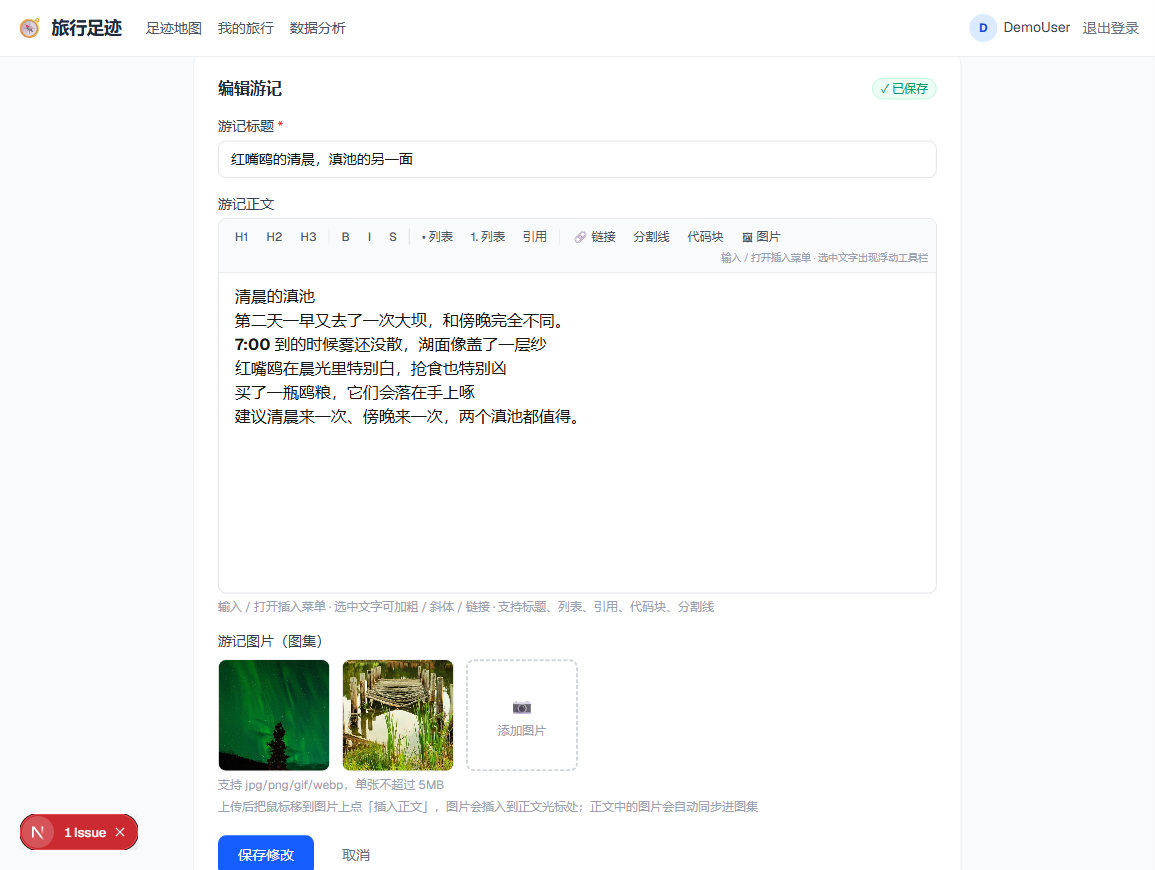
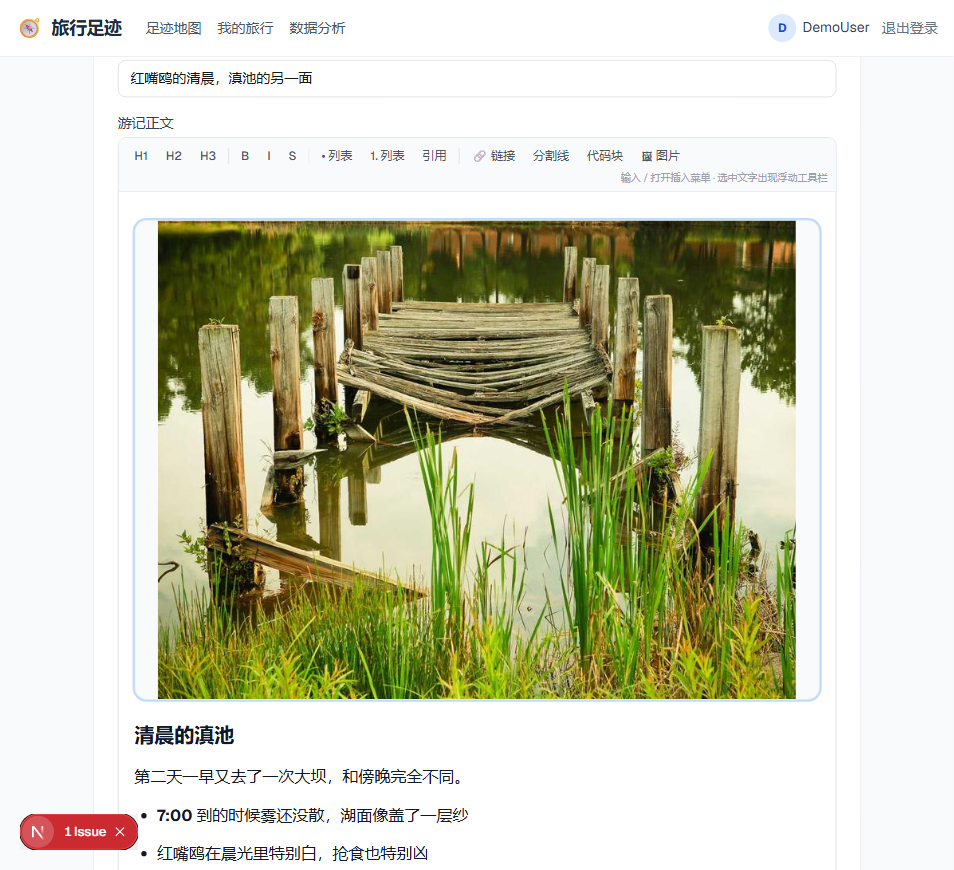
feat: 编辑器所见即所得视觉层——统一 Typography + 宽度收窄 + placeholder + 快捷输入验证
- 阅读页/编辑页共用 .markdown-content Typography（编辑=保存后排版）
- .prose-editor .ProseMirror：outline/min-height/max-width 780px 居中
- 新增 @tiptap/extension-placeholder（空编辑器提示）
- 验证 StarterKit 默认 input rules：#→H1、##→H2、-→列表、>→引用、1.→有序列表
- 更新编辑器运行截图

diff --git a/app/globals.css b/app/globals.css
@@ -18,8 +18,8 @@ body {
   font-family: var(--font-geist-sans), "PingFang SC", "Microsoft YaHei", Arial, sans-serif;
 }
 
-/* Markdown 游记正文样式 */
-.markdown-body h1 {
+/* Markdown 娓歌姝ｆ枃鏍峰紡 */
+.markdown-content h1 {
   font-size: 1.5rem;
   font-weight: 700;
   color: #111827;
@@ -28,35 +28,35 @@ body {
   padding-bottom: 0.3rem;
   border-bottom: 1px solid #e5e7eb;
 }
-.markdown-body h2 {
+.markdown-content h2 {
   font-size: 1.25rem;
   font-weight: 700;
   color: #111827;
   margin-top: 1.1rem;
   margin-bottom: 0.5rem;
 }
-.markdown-body h3 {
+.markdown-content h3 {
   font-size: 1.1rem;
   font-weight: 600;
   color: #111827;
   margin-top: 0.9rem;
   margin-bottom: 0.4rem;
 }
-.markdown-body p {
+.markdown-content p {
   margin-top: 0.6rem;
   margin-bottom: 0.6rem;
   line-height: 1.8;
 }
-.markdown-body ul,
-.markdown-body ol {
+.markdown-content ul,
+.markdown-content ol {
   margin: 0.6rem 0;
   padding-left: 1.4rem;
   list-style: revert;
 }
-.markdown-body li {
+.markdown-content li {
   margin: 0.25rem 0;
 }
-.markdown-body blockquote {
+.markdown-content blockquote {
   border-left: 3px solid #93c5fd;
   background: #eff6ff;
   padding: 0.5rem 0.9rem;
@@ -64,14 +64,14 @@ body {
   border-radius: 0 0.4rem 0.4rem 0;
   color: #4b5563;
 }
-.markdown-body code {
+.markdown-content code {
   background: #f3f4f6;
   padding: 0.15rem 0.35rem;
   border-radius: 0.3rem;
   font-size: 0.875em;
   font-family: var(--font-geist-mono), Consolas, monospace;
 }
-.markdown-body pre {
+.markdown-content pre {
   background: #111827;
   color: #e5e7eb;
   padding: 0.9rem 1rem;
@@ -79,34 +79,34 @@ body {
   overflow-x: auto;
   margin: 0.8rem 0;
 }
-.markdown-body pre code {
+.markdown-content pre code {
   background: transparent;
   padding: 0;
   color: inherit;
 }
-.markdown-body a {
+.markdown-content a {
   color: #2563eb;
   text-decoration: underline;
 }
-.markdown-body hr {
+.markdown-content hr {
   margin: 1.2rem 0;
   border-color: #e5e7eb;
 }
-.markdown-body table {
+.markdown-content table {
   border-collapse: collapse;
   margin: 0.8rem 0;
   width: 100%;
 }
-.markdown-body th,
-.markdown-body td {
+.markdown-content th,
+.markdown-content td {
   border: 1px solid #e5e7eb;
   padding: 0.4rem 0.7rem;
   font-size: 0.9rem;
 }
-.markdown-body th {
+.markdown-content th {
   background: #f9fafb;
 }
-.markdown-body img {
+.markdown-content img {
   display: block;
   max-width: 100%;
   height: auto;
@@ -114,6 +114,37 @@ body {
   border-radius: 0.75rem;
   border: 1px solid #e5e7eb;
 }
-.markdown-body p img {
+.markdown-content p img {
   margin: 0.5rem 0;
+}
+
+/* ===== Tiptap 所见即所得编辑器：编辑时直接显示最终排版 =====
+   .markdown-content 规则（上方）已同时作用于阅读页与编辑器，
+   此处只放编辑器专属的基础排版 */
+.prose-editor .ProseMirror {
+  outline: none;
+  min-height: 320px;
+  color: #111827;
+  font-size: 1rem;
+  line-height: 1.8;
+  max-width: 780px;
+  margin: 0 auto;
+}
+.prose-editor .ProseMirror > *:first-child {
+  margin-top: 0;
+}
+.prose-editor .ProseMirror p.is-editor-empty:first-child::before {
+  content: attr(data-placeholder);
+  float: left;
+  height: 0;
+  pointer-events: none;
+  color: #9ca3af;
+}
+/* 选中文字时保留排版（不因 selection 变小） */
+.prose-editor .ProseMirror ::selection {
+  background: #bfdbfe;
+}
+/* 图片节点 hover 操作区不干扰选中 */
+.prose-editor .ProseMirror .image-node-view {
+  cursor: pointer;
 }

diff --git a/components/editor/editor-extensions.ts b/components/editor/editor-extensions.ts
@@ -7,6 +7,7 @@ import StarterKit from "@tiptap/starter-kit";
 import { Markdown } from "@tiptap/markdown";
 import Image from "@tiptap/extension-image";
 import Link from "@tiptap/extension-link";
+import Placeholder from "@tiptap/extension-placeholder";
 import { ReactNodeViewRenderer } from "@tiptap/react";
 import ImageNodeView from "./EditorImage";
 
@@ -29,5 +30,8 @@ export const editorExtensions = [
     autolink: true,
     linkOnPaste: true,
     HTMLAttributes: { class: "text-blue-600 underline" },
+  }),
+  Placeholder.configure({
+    placeholder: "开始写点什么…（输入 / 打开插入菜单）",
   }),
 ];

diff --git a/components/editor/TravelEditor.tsx b/components/editor/TravelEditor.tsx
@@ -82,6 +82,8 @@ const TravelEditor = forwardRef<TravelEditorHandle, TravelEditorProps>(function 
       onChange?.(editor.getMarkdown());
     },
     editorProps: {
+      // 与阅读页共用同一套 Typography（所见即所得）
+      attributes: { class: "markdown-content" },
       handleKeyDown: (_view, event) => {
         const s = slashRef.current;
         if (!s) return false;

diff --git a/components/MarkdownView.tsx b/components/MarkdownView.tsx
@@ -5,7 +5,7 @@ import ReactMarkdown from "react-markdown";
 /** Markdown 游记正文渲染 */
 export default function MarkdownView({ content }: { content: string }) {
   return (
-    <div className="markdown-body text-gray-700 leading-relaxed">
+    <div className="markdown-content text-gray-700 leading-relaxed">
       <ReactMarkdown>{content}</ReactMarkdown>
     </div>
   );
